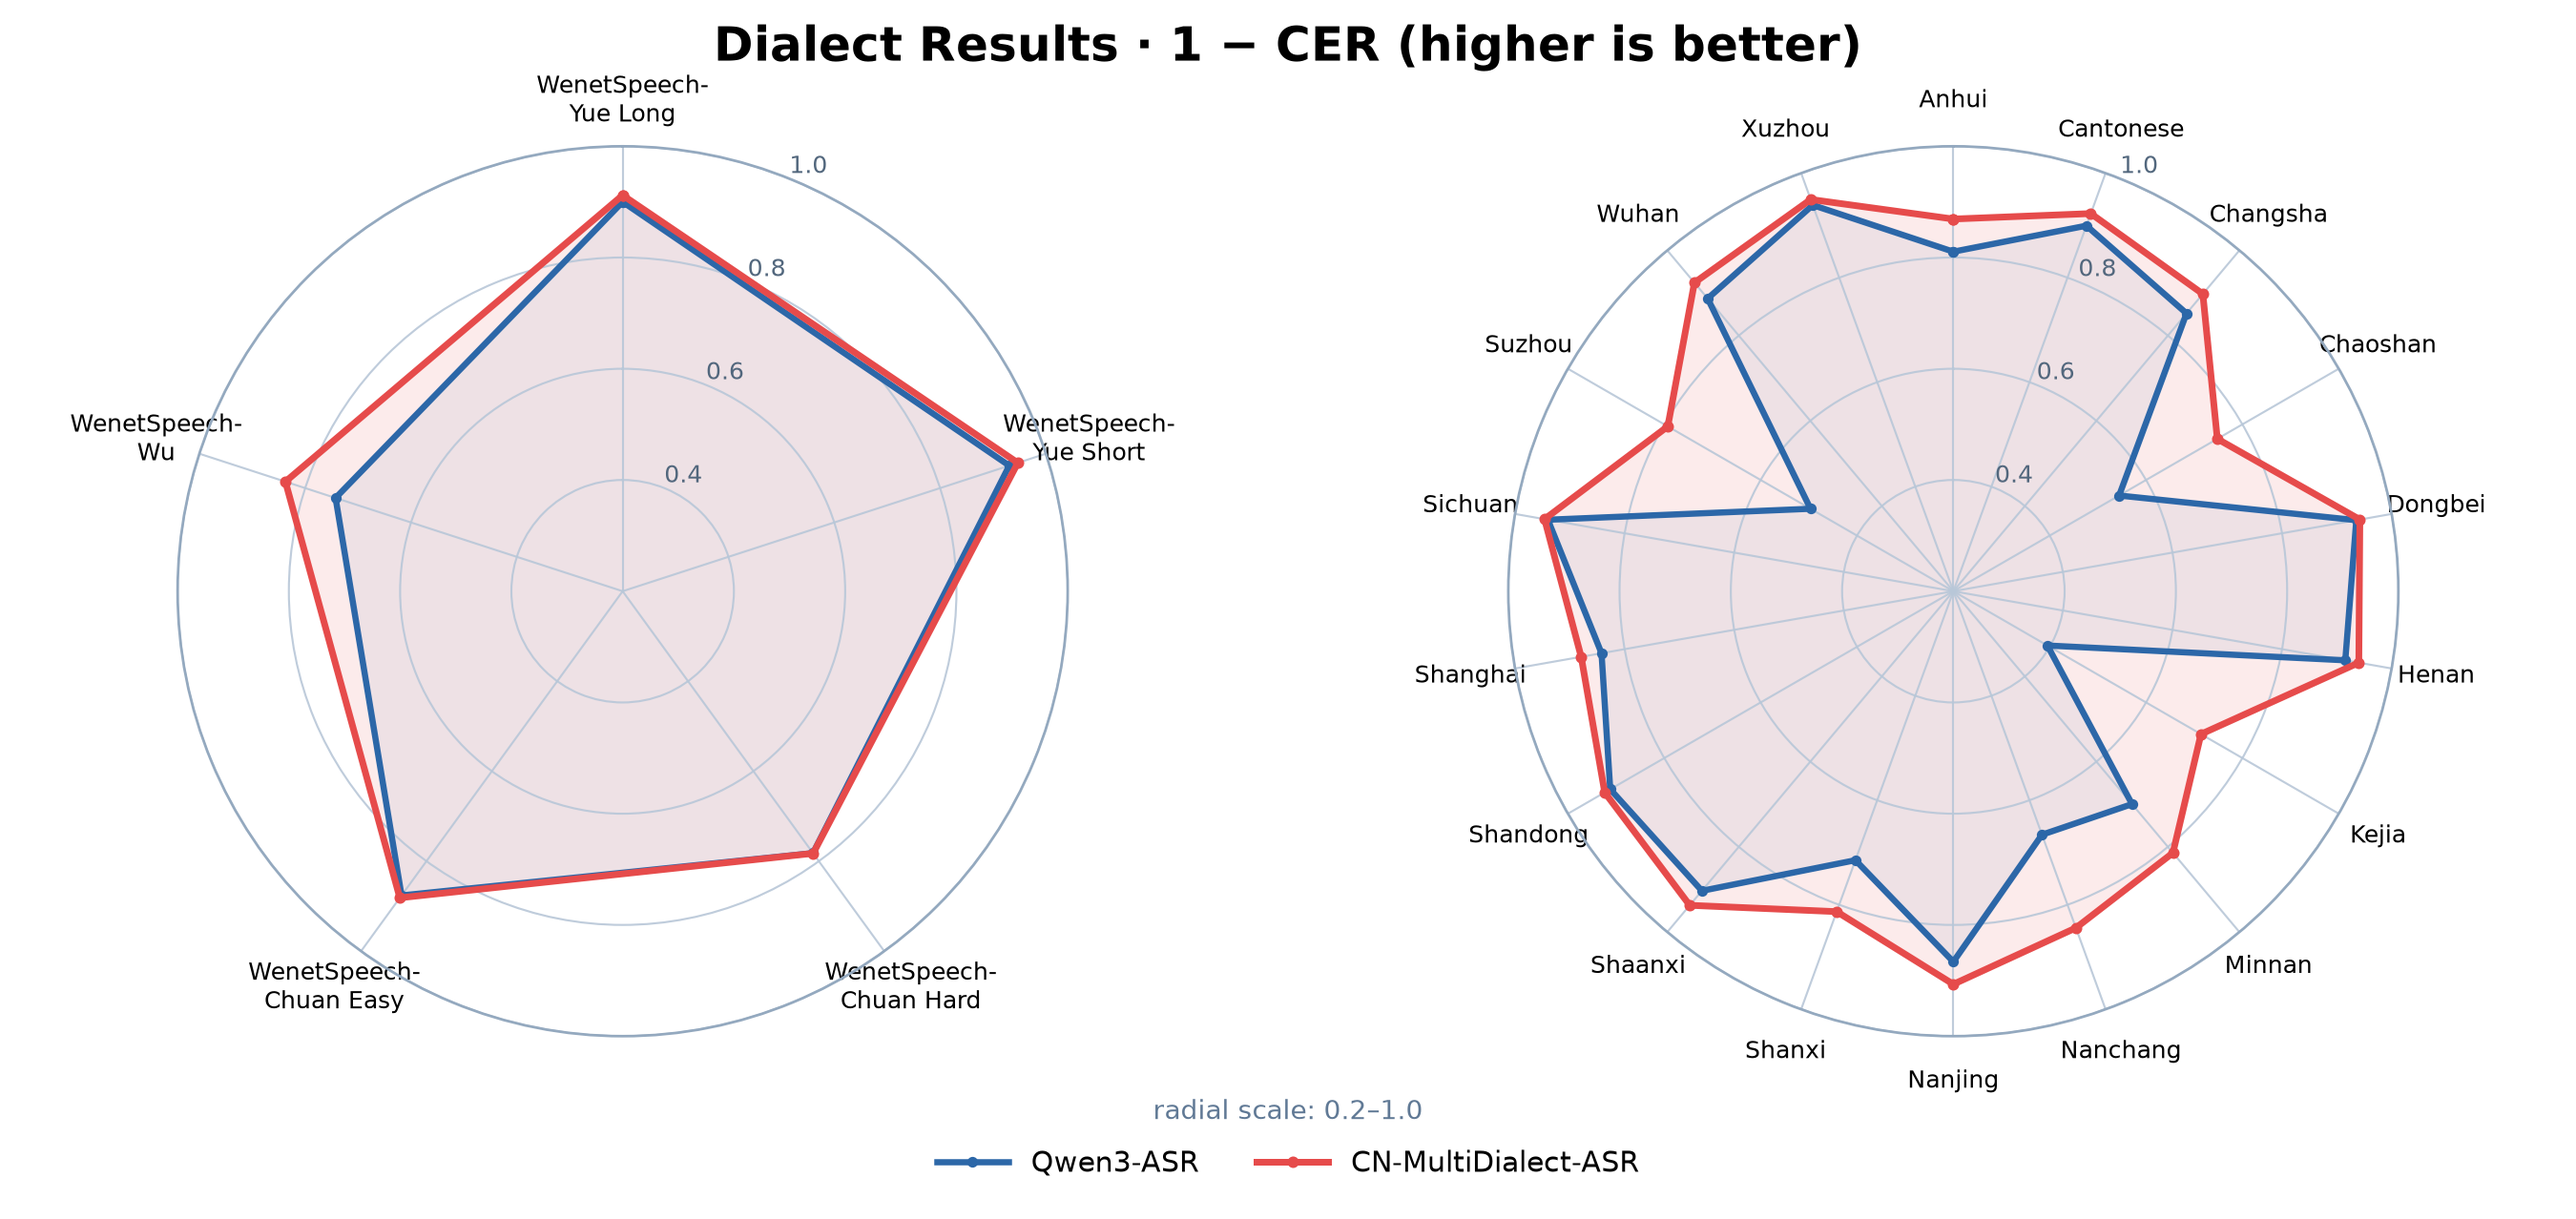
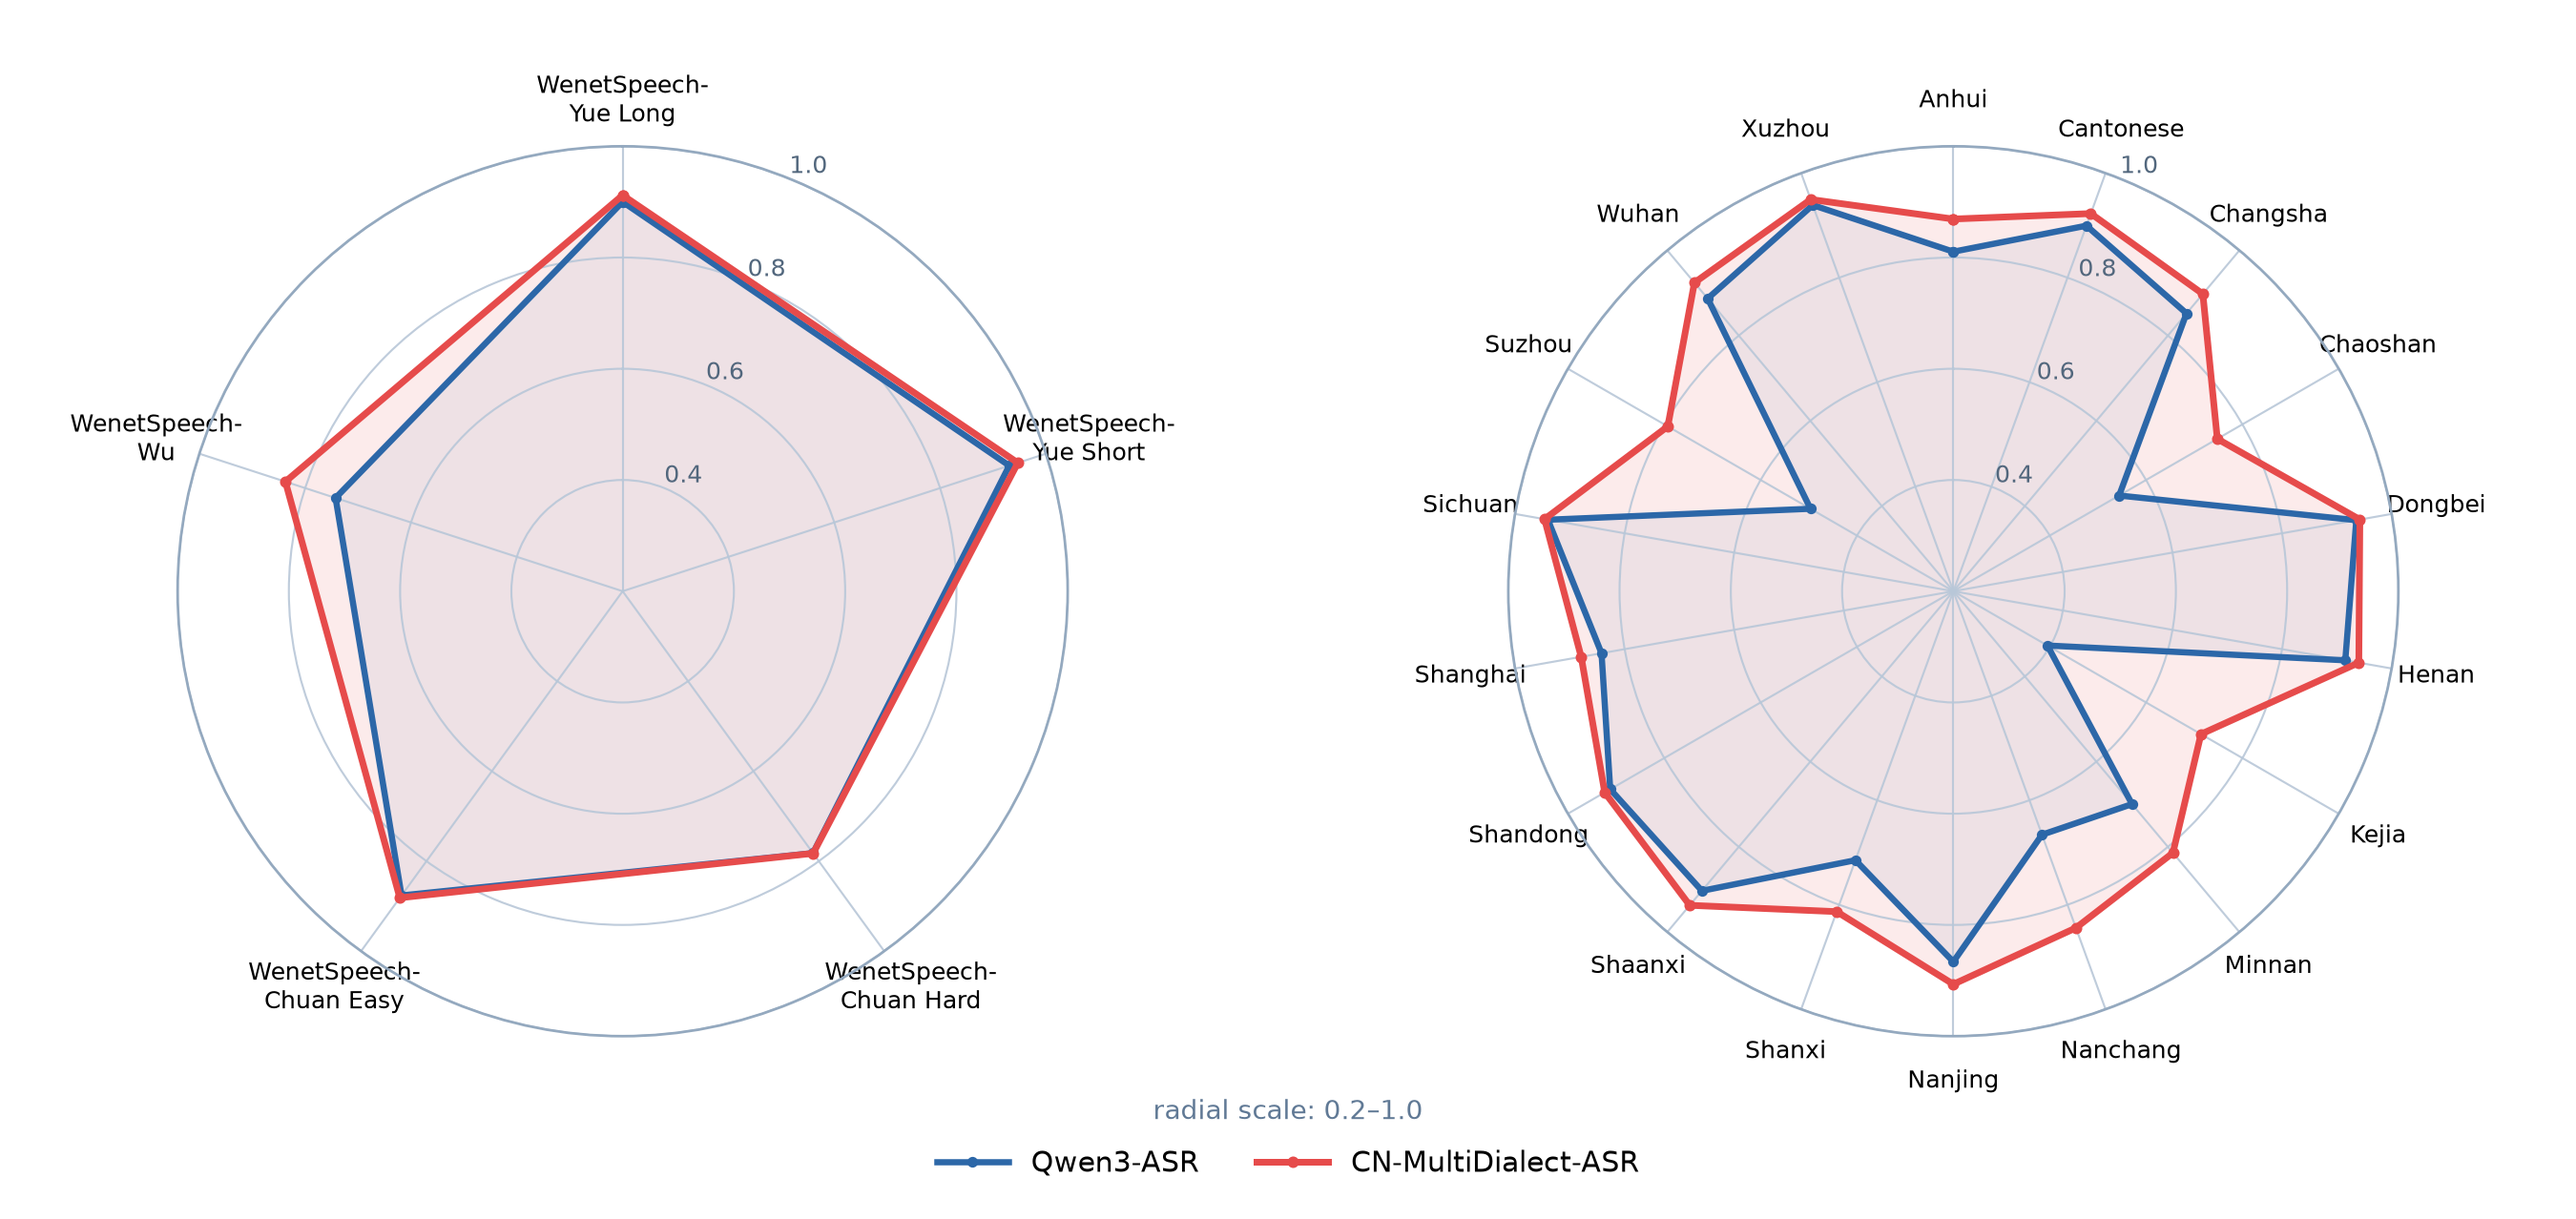
update assets

Changed region(s): [[0.4978, 0.0, 0.7156, 0.061], [0.28, 0.0, 0.4667, 0.061]]

diff --git a/README.md b/README.md
@@ -1,3 +1,6 @@
+<p align="center">
+  <img src="assets/logo.jpeg" width="520" alt="CN-MultiDialect-ASR logo">
+</p>
 
 # 🧠 On-Policy Self-Distillation for Multi-Dialect ASR: Mastering Dialects, Retaining Mandarin
 
@@ -181,9 +184,9 @@ We evaluate on three groups of test sets:
 
 `Anhui`, `Cantonese`, `Changsha`, `Chaoshan`, `Dongbei`, `Henan`, `Kejia`, `Minnan`, `Nanchang`, `Nanjing`, `Shanxi`, `Shaanxi`, `Shandong`, `Shanghai`, `Sichuan`, `Suzhou`, `Wuhan`, `Xuzhou`
 
-## 📈 Main Results
+## 📈 Performances
 
-### 🧭 Dialect Results (1 − CER)
+### 🧭 Dialect Overview
 
 <div align="center">
   <img src="assets/radar_1_cer_panels.png" alt="Side-by-side radar of 1-CER on public and internal dialect sets" width="92%">
@@ -268,6 +271,13 @@ If you use this work, please consider citing:
 }
 ```
 
-## 📄 License
+## 📄 Contact
 
-The released model is licensed under [Apache 2.0](https://huggingface.co/ASLP-lab/CN-MultiDialect-ASR/).
+For questions or collaborations, please contact [wangshuiyuan@mail.nwpu.edu.cn](mailto:wangshuiyuan@mail.nwpu.edu.cn).
+
+You are also welcome to join our WeChat group for technical discussions and updates.
+<p align="center">
+  <img src="assets/wechat.jpg" width="300" alt="WeChat group QR code">
+  <br>
+  <em>Scan to join our WeChat discussion group</em>
+</p>
